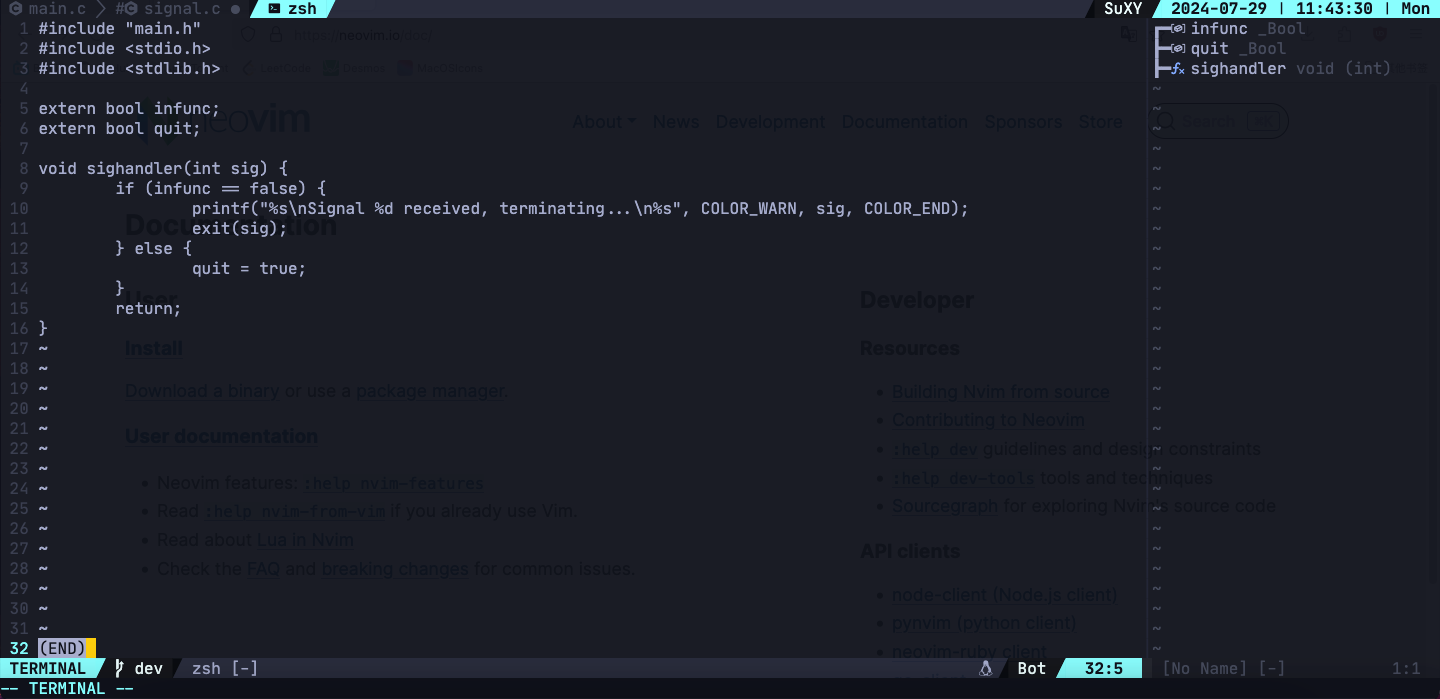
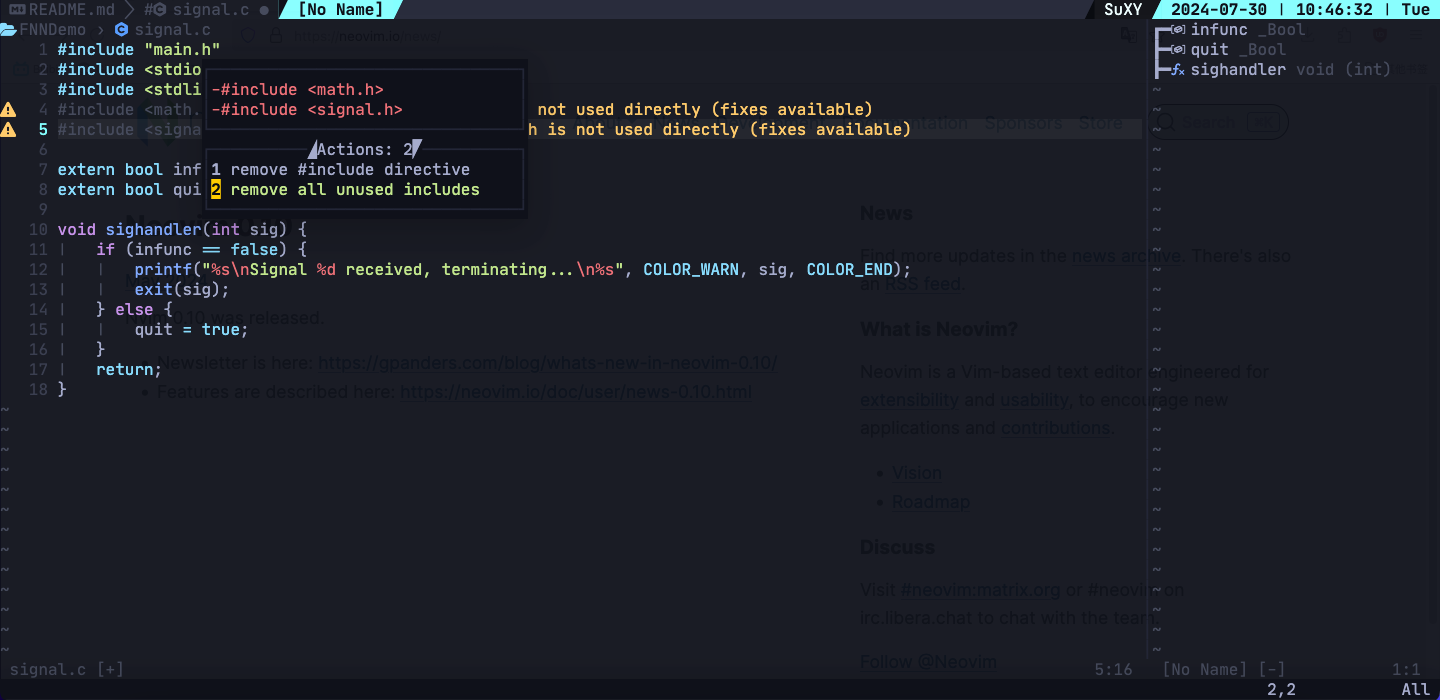
Update README.md.

diff --git a/README.md b/README.md
@@ -2,16 +2,17 @@
 
 ## Intro
 
-SuXYIO's Neovim config. 
+_SuXYIO_'s __Neovim__ config. 
 
 ## Screenshots
 
 <details>
-<summary>Screenshots<summary>
+<summary>Screenshots</summary>
 
-Editing markdown with _tree view_, _code outline_, _telescope_ on, _tokyonight_ colorscheme. 
+> Editing markdown with _tree view_, _code outline_, _telescope_ on, _tokyonight_ colorscheme. 
 ![Screenshot0](./media/Screenshot0.png)
-Opening a terminal and viewing _signal.c_ with _less_ <s>(dumb thing to want to do)</s>, and opening a _code outline_, _material_ colorscheme. 
+
+> Editing a C source file and checking for _code actions_, with _code outline_ on, _material_ colorscheme. 
 ![Screenshot1](./media/Screenshot1.png)
 
 </details>
@@ -20,36 +21,36 @@ Opening a terminal and viewing _signal.c_ with _less_ <s>(dumb thing to want to 
 
 ### Plugin
 
-Manager: [Lazy.nvim](https://github.com/folke/lazy.nvim)
+Manager: __[Lazy.nvim](https://github.com/folke/lazy.nvim)__
 
 <details>
 <summary>Plugin list</summary>
 
 | Plugin | Description | Lazy |
 | ------ | ----------- | ---- |
-| [Autopairs](https://github.com/windwp/nvim-autopairs) | Better insert experience for paired characters | Event`InsertEnter` |
-| [NvimCmp](https://github.com/hrsh7th/nvim-cmp) | Provide completion | Event `InsertEnter` |
-| [Codeium](https://github.com/Exafunction/codeium.nvim) | Provide AI assist | Cmd `Codeium` |
-| [Dashboard](https://github.com/nvimdev/dashboard-nvim) | Startup dashboard | Event `VimEnter` |
-| [GitSign](https://github.com/lewis6991/gitsigns.nvim) | Show changes for git | Event `VimEnter` |
-| [LeetCode](https://github.com/kawre/leetcode.nvim) | Leetcode inside nvim | Cmd `Leet` |
-| [LspConfig](https://github.com/neovim/nvim-lspconfig) | Provide LSP configuration | Event `VimEnter` |
-| [LspSaga](https://github.com/nvimdev/lspsaga.nvim) | Better LSP experience | Event `VimEnter` |
-| [Lualine](https://github.com/nvim-lualine/lualine.nvim) | Provide fancy lines and tabs | Event `VimEnter` |
-| [Mason](https://github.com/williamboman/mason.nvim) | Install LSPs | Event `VimEnter` |
-| [MarkdownPreview](https://github.com/iamcco/markdown-preview.nvim) | Preview markdown files | Cmd `MarkdownPreviewToggle, MarkdownPreview, MarkdownPreviewStop`; Ft `markdown` |
-| [Telescope](https://github.com/nvim-telescope/telescope.nvim) | Find files | Cmd `Telescope` |
-| [TodoComments](https://github.com/folke/todo-comments.nvim) | Highlight todo comments | Event `VimEnter` |
-| [Transparent](https://github.com/xiyaowong/transparent.nvim) | Provide transparent background | Event `VimEnter` |
-| [NvimTree](https://github.com/nvim-tree/nvim-tree.lua) | Provide tree view | Keys <kbd>Ctrl</kbd>-<kbd>N</kbd> |
+| [Autopairs](https://github.com/windwp/nvim-autopairs) | Better insert experience for __paired characters__ | Event`InsertEnter` |
+| [Codeium](https://github.com/Exafunction/codeium.nvim) | Provide __AI__ assist | Cmd `Codeium` |
+| [Dashboard](https://github.com/nvimdev/dashboard-nvim) | Startup __dashboard__ | Event `VimEnter` |
+| [GitSign](https://github.com/lewis6991/gitsigns.nvim) | Show __changes for git__ | Event `VimEnter` |
+| [LeetCode](https://github.com/kawre/leetcode.nvim) | __Leetcode__ inside nvim | Cmd `Leet` |
+| [LspConfig](https://github.com/neovim/nvim-lspconfig) | Provide __LSP configuration__ | Event `VimEnter` |
+| [LspSaga](https://github.com/nvimdev/lspsaga.nvim) | Better __LSP experience__ | Event `VimEnter` |
+| [Lualine](https://github.com/nvim-lualine/lualine.nvim) | Provide fancy __lines and tabs__ | Event `VimEnter` |
+| [Mason](https://github.com/williamboman/mason.nvim) | __Install LSPs__ | Event `VimEnter` |
+| [MarkdownPreview](https://github.com/iamcco/markdown-preview.nvim) | Preview __markdown__ files | Cmd `MarkdownPreviewToggle, MarkdownPreview, MarkdownPreviewStop`; Ft `markdown` |
+| [NvimCmp](https://github.com/hrsh7th/nvim-cmp) | Provide __completion__ | Event `InsertEnter` |
+| [NvimTree](https://github.com/nvim-tree/nvim-tree.lua) | Provide __tree__ view | Keys <kbd>Ctrl</kbd>-<kbd>N</kbd> |
+| [Telescope](https://github.com/nvim-telescope/telescope.nvim) | __Find__ files | Cmd `Telescope` |
+| [TodoComments](https://github.com/folke/todo-comments.nvim) | Highlight __todo__ comments | Event `VimEnter` |
+| [Transparent](https://github.com/xiyaowong/transparent.nvim) | Provide __transparent__ background | Event `VimEnter` |
 
 </details>
 
 ### LSP
 
-Manager: [Mason.nvim](https://github.com/williamboman/mason.nvim)
+Manager: __[Mason.nvim](https://github.com/williamboman/mason.nvim)__
 
-The autoload feature in Mason is enabled, just install the LSPs needed, no need to config every single one. 
+The __autoload__ feature in _Mason_ is __enabled__, just install the LSPs needed, no need to config every single one. 
 
 ### Keymap
 
@@ -60,36 +61,36 @@ The autoload feature in Mason is enabled, just install the LSPs needed, no need 
 
 | Mode | Key | Map | Description |
 | ---- | --- | --- | ----------- |
-| / | <kbd>;</kbd> | `leader` | Leader key |
-| N | <kbd>Cmd</kbd>-<kbd>C</kbd> | `"+y` | Copy to system clipboard |
-| N | <kbd>Cmd</kbd>-<kbd>V</kbd> | `"+P` | Paste from system clipboard in normal mode |
-| I | <kbd>Cmd</kbd>-<kbd>V</kbd> | `<Esc>"+P` | Paste from system clipboard in insert mode |
-| N | <kbd>Cmd</kbd>-<kbd>S</kbd> | `<CMD>w<CR>` | Save file |
-| I | <kbd>j</kbd><kbd>L</kbd> | `<Esc>` | Escape from insert mode |
-| N | <kbd>Space</kbd> | `:` | Go to command mode |
-| N | <kbd>Ctrl</kbd>-<kbd>K</kbd> | `ddkP` | Move line up |
-| N | <kbd>Ctrl</kbd>-<kbd>J</kbd> | `ddp` | Move line down |
-| N | <kbd>Esc</kbd> | `<CMD>noh<CR>` | Remove highlight (clear search highlight) |
-| N | <kbd>Ctrl</kbd>-<kbd>O</kbd> | `<CMD>bn<CR>` | Switch buffer |
-| N | <kbd>Ctrl</kbd>-<kbd>I</kbd> | `<CMD>bd<CR>` | Close buffer |
-| N | <kbd>Ctrl</kbd>-<kbd>H</kbd> | `<CMD>vs<CR>` | Vertical window split |
-| N | <kbd>Ctrl</kbd>-<kbd>M</kbd> | `<CMD>terminal<CR>` | Open terminal |
-| T | <kbd>J</kbd><kbd>K</kbd> | `<C-\\><C-n>` | Escape from terminal mode |
+| / | <kbd>;</kbd> | `leader` | __Leader__ key |
+| N | <kbd>Cmd</kbd>-<kbd>C</kbd> | `"+y` | __Copy__ to system clipboard |
+| N | <kbd>Cmd</kbd>-<kbd>V</kbd> | `"+P` | __Paste__ from system clipboard in normal mode |
+| I | <kbd>Cmd</kbd>-<kbd>V</kbd> | `<Esc>"+P` | __Paste__ from system clipboard in insert mode |
+| N | <kbd>Cmd</kbd>-<kbd>S</kbd> | `<CMD>w<CR>` | __Save__ file |
+| I | <kbd>j</kbd><kbd>L</kbd> | `<Esc>` | __Escape__ from insert mode |
+| N | <kbd>Space</kbd> | `:` | Go to __command__ mode |
+| N | <kbd>Ctrl</kbd>-<kbd>K</kbd> | `ddkP` | __Move line__ up |
+| N | <kbd>Ctrl</kbd>-<kbd>J</kbd> | `ddp` | __Move line__ down |
+| N | <kbd>Esc</kbd> | `<CMD>noh<CR>` | Remove __highlight__ (clear search highlight) |
+| N | <kbd>Ctrl</kbd>-<kbd>O</kbd> | `<CMD>bn<CR>` | Switch __buffer__ |
+| N | <kbd>Ctrl</kbd>-<kbd>I</kbd> | `<CMD>bd<CR>` | Close __buffer__ |
+| N | <kbd>Ctrl</kbd>-<kbd>H</kbd> | `<CMD>vs<CR>` | Vertical window __split__ |
+| N | <kbd>Ctrl</kbd>-<kbd>M</kbd> | `<CMD>terminal<CR>` | Open __terminal__ |
+| T | <kbd>J</kbd><kbd>K</kbd> | `<C-\\><C-n>` | __Escape__ from terminal mode |
 
 #### Plugin
 
 | Plugin | Mode | Key | Map | Description |
 | ------ | ---- | --- | --- | ----------- |
-| NvimCmp | I | <kbd>Enter</kbd> | `cmp.mapping.confirm({select = true})` | Confirm completion |
-| NvimCmp | I | <kbd>Tab</kbd> | `cmp.mapping.abort()` | Abort completion |
-| LspSaga | N | <kbd>[</kbd><kbd>E</kbd> | `<CMD>Lspsaga diagnostic_jump_next<CR>` | Jump to next diagnostic |
-| LspSaga | N | <kbd>[</kbd><kbd>Shift</kbd>-<kbd>E</kbd> | `<CMD>Lspsaga diagnostic_jump_next<CR>` | Jump to previous diagnostic |
-| LspSaga | N | <kbd>Ctrl</kbd>-<kbd>S</kbd> | `<CMD>Lspsaga outline<CR>` | Show outline(structure) of code |
-| LspSaga | N | <kbd>Ctrl</kbd>-<kbd>A</kbd> | `<CMD>Lspsaga code_action<CR>` | Show actions of code |
-| MarkdownPreview | N | <kbd>Ctrl</kbd>-<kbd>B</kbd> | `<CMD>MarkdownPreviewToggle<CR>` | Toggle markdown preview |
-| Telescope | N | <kbd>f</kbd><kbd>f</kbd> | `<CMD>Telescope find_files<CR>` | Telescope find files |
-| Transparent | N | <kbd>T</kbd> | `<CMD>TransparentToggle<CR>` | Transparent toggle |
-| NvimTree | N | <kbd>Ctrl</kbd>-<kbd>N</kbd> | `<CMD>NvimTreeToggle<CR>` | Toggle tree view |
+| NvimCmp | I | <kbd>Enter</kbd> | `cmp.mapping.confirm({select = true})` | Confirm __completion__ |
+| NvimCmp | I | <kbd>Tab</kbd> | `cmp.mapping.abort()` | Abort __completion__ |
+| LspSaga | N | <kbd>[</kbd><kbd>E</kbd> | `<CMD>Lspsaga diagnostic_jump_next<CR>` | __Jump__ to next __diagnostic__ |
+| LspSaga | N | <kbd>[</kbd><kbd>Shift</kbd>-<kbd>E</kbd> | `<CMD>Lspsaga diagnostic_jump_next<CR>` | __Jump__ to previous __diagnostic__ |
+| LspSaga | N | <kbd>Ctrl</kbd>-<kbd>S</kbd> | `<CMD>Lspsaga outline<CR>` | Show __outline__(structure) of code |
+| LspSaga | N | <kbd>Ctrl</kbd>-<kbd>A</kbd> | `<CMD>Lspsaga code_action<CR>` | Show __actions__ of code |
+| MarkdownPreview | N | <kbd>Ctrl</kbd>-<kbd>B</kbd> | `<CMD>MarkdownPreviewToggle<CR>` | Toggle __markdown__ preview |
+| Telescope | N | <kbd>f</kbd><kbd>f</kbd> | `<CMD>Telescope find_files<CR>` | __Telescope__ find files |
+| Transparent | N | <kbd>T</kbd> | `<CMD>TransparentToggle<CR>` | __Transparent__ toggle |
+| NvimTree | N | <kbd>Ctrl</kbd>-<kbd>N</kbd> | `<CMD>NvimTreeToggle<CR>` | Toggle __tree__ view |
 
 </details>
 
@@ -102,14 +103,14 @@ The autoload feature in Mason is enabled, just install the LSPs needed, no need 
 
 #### Colorcycle
 
-The program does a _Colorcycle_ every time on startup.  
-You can choose between `Choose by time` or `Choose in list (random)` by modifying `lua/colorcycle.lua`.  
-The time seperation is defined in `lua/timeseps.lua`.  
-A few colorchemes also change it's own style by time, see lua files in `lua/colorschemes/`
+The program does a __Colorcycle__ every time on startup.  
+You can choose between __`Choose by time`__ or __`Choose in list (random)`__ by modifying `lua/colorcycle.lua`.  
+The __time seperation__ is defined in `lua/timeseps.lua`.  
+A few colorchemes also __change__ it's own __style__ by __time__, see lua files in `lua/colorschemes/`
 
 ### Font
 
-Nerdfont is needed to show properly. 
+__Nerdfont__ is needed to show properly. 
 I personally like [JetbrainsMono](https://www.jetbrains.com/lp/mono/). 
 
 ### Misc
@@ -121,12 +122,12 @@ I personally like [JetbrainsMono](https://www.jetbrains.com/lp/mono/).
 
 | Command | Operation | Description |
 | ------- | --------- | ----------- |
-| `Hex` | `%!xxd` | Convert buffer raw to hex code |
-| `Dehex` | `%!xxd -r` | Convert buffer hex code to raw |
+| `Hex` | `%!xxd` | Convert buffer raw to __hex__ code |
+| `Dehex` | `%!xxd -r` | Convert buffer hex code to __raw__ |
 
 </details>
 
 #### Client support
 
-The client [Neovide](https://neovide.dev/) is supported, see `lua/client.lua`. 
+The client __[Neovide](https://neovide.dev/)__ is supported, see `lua/client.lua`. 
 
